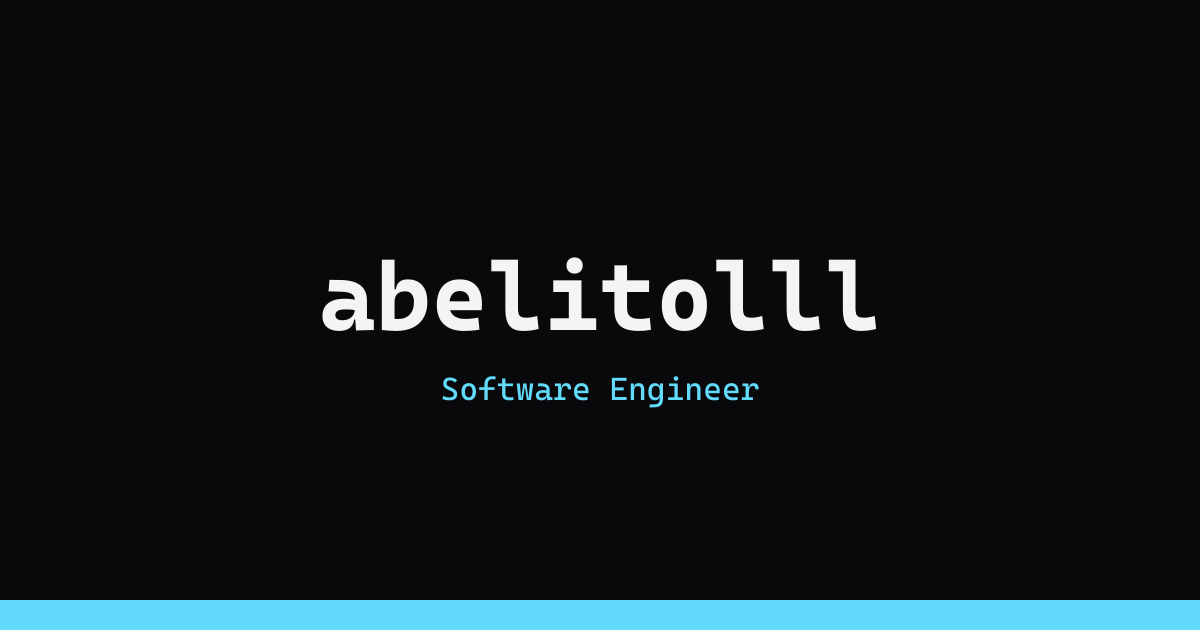
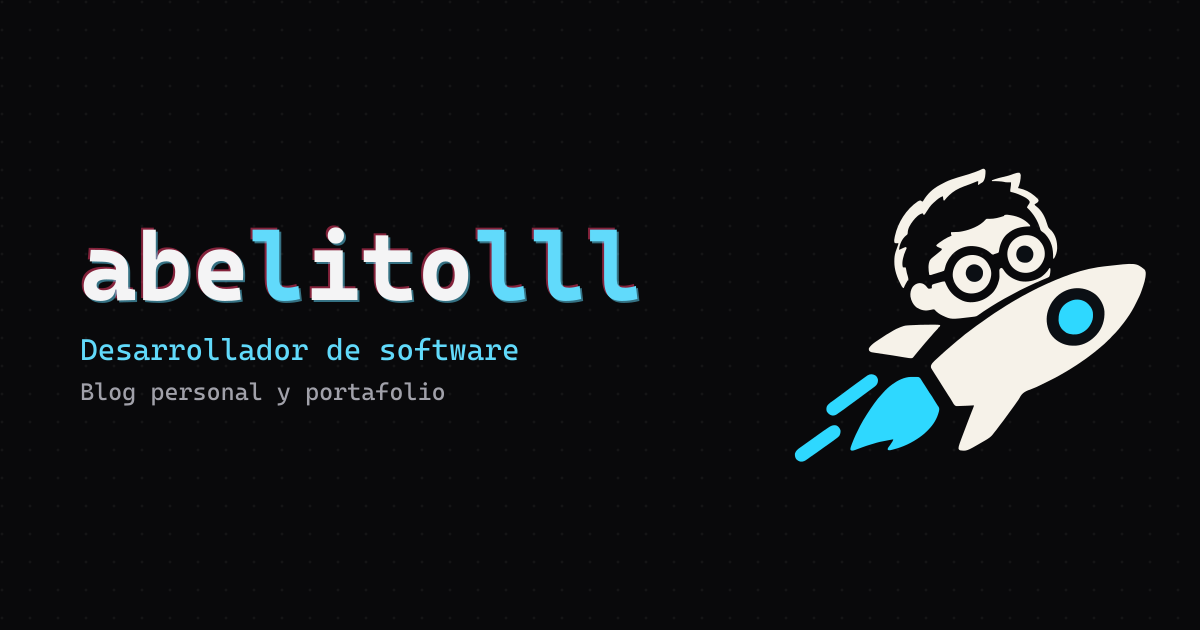
F17: rediseño de la imagen OG + descripciones actualizadas
Reemplaza el og-image.png plano (texto + barra) por una composición con el
wordmark glitcheado, el SVG del cohete y copy en español coherente con el
perfil actualizado. Actualiza SITE_DESCRIPTION y el title/description de la
home.

Changed region(s): [[0.0617, 0.2714, 0.9558, 0.754], [0.0, 0.9349, 1.0, 1.0], [0.0617, 0.6032, 0.6475, 0.6635]]

diff --git a/src/lib/seo.ts b/src/lib/seo.ts
@@ -1,7 +1,7 @@
 export const SITE_NAME = "abelitolll";
 export const SITE_URL = "https://abelitolll.com";
 export const SITE_DESCRIPTION =
-  "Portafolio de abelitolll — proyectos, notas técnicas y experimentos de desarrollo de software.";
+  "abelitolll — desarrollador de software peruano. Notas técnicas, proyectos y experimentos, con apoyo de herramientas de IA.";
 export const SITE_OG_IMAGE = "/og-image.png";
 export const SITE_LOCALE = "es_ES";
 

diff --git a/PLAN.md b/PLAN.md
@@ -23,6 +23,7 @@ Cada feature es vertical (deja algo corriendo y verificable), no toca más de 8 
 - [x] F14 — Smoke tests E2E (Playwright)
 - [x] F15 — Deploy a Vercel + dominio
 - [x] F16 — Página "Sobre mí" + Hero/Terminal actualizados
+- [x] F17 — Rediseño de la imagen OG + descripciones
 
 ---
 
@@ -127,3 +128,9 @@ Cada feature es vertical (deja algo corriendo y verificable), no toca más de 8 
 **Incluye:** `src/pages/sobre-mi.astro` (resumen profesional breve: desarrollador de software, 3 años de experiencia, stack, apoyo en IA, arquitectura limpia/ágil, con el SVG de marca a la derecha del texto), nav actualizado en `Header.astro` (Inicio → Sobre mí → Blog), párrafo del Hero reescrito (`Hero.astro`), `TerminalHero.tsx` con nuevas preguntas ("¿quién eres?", "¿cómo trabajas?"), color tipo CLI por línea de respuesta (clave/valor/árbol) y pausas extendidas en las respuestas largas.
 **Excluye:** foto personal, timeline de empleos (empresa/cargo/fechas), cálculo dinámico de años de experiencia.
 **Verificación:** `npm run check`; `npm run build`; visual consistente en ancho (`max-w-3xl`) con el resto de páginas; `npx playwright test` pasa.
+
+## F17 — Rediseño de la imagen OG + descripciones
+
+**Incluye:** `scripts/generate-og-image.mjs` reescrito (wordmark con corrimiento cromático estático eco del glitch de `Wordmark.tsx`, subtítulo "Desarrollador de software" / "Blog personal y portafolio", SVG del cohete embebido, textura de puntos sutil, sin la barra de acento gruesa), `public/og-image.png` regenerado, `SITE_DESCRIPTION` en `src/lib/seo.ts` y el `title`/`description` de la home actualizados para reflejar el perfil real.
+**Excluye:** `og:image:width/height/alt`, `twitter:site/creator`, uso del logo "head" (se usó el rocket).
+**Verificación:** `npm run check`; `npm run build`; `npx playwright test`; revisión visual de `public/og-image.png`.
